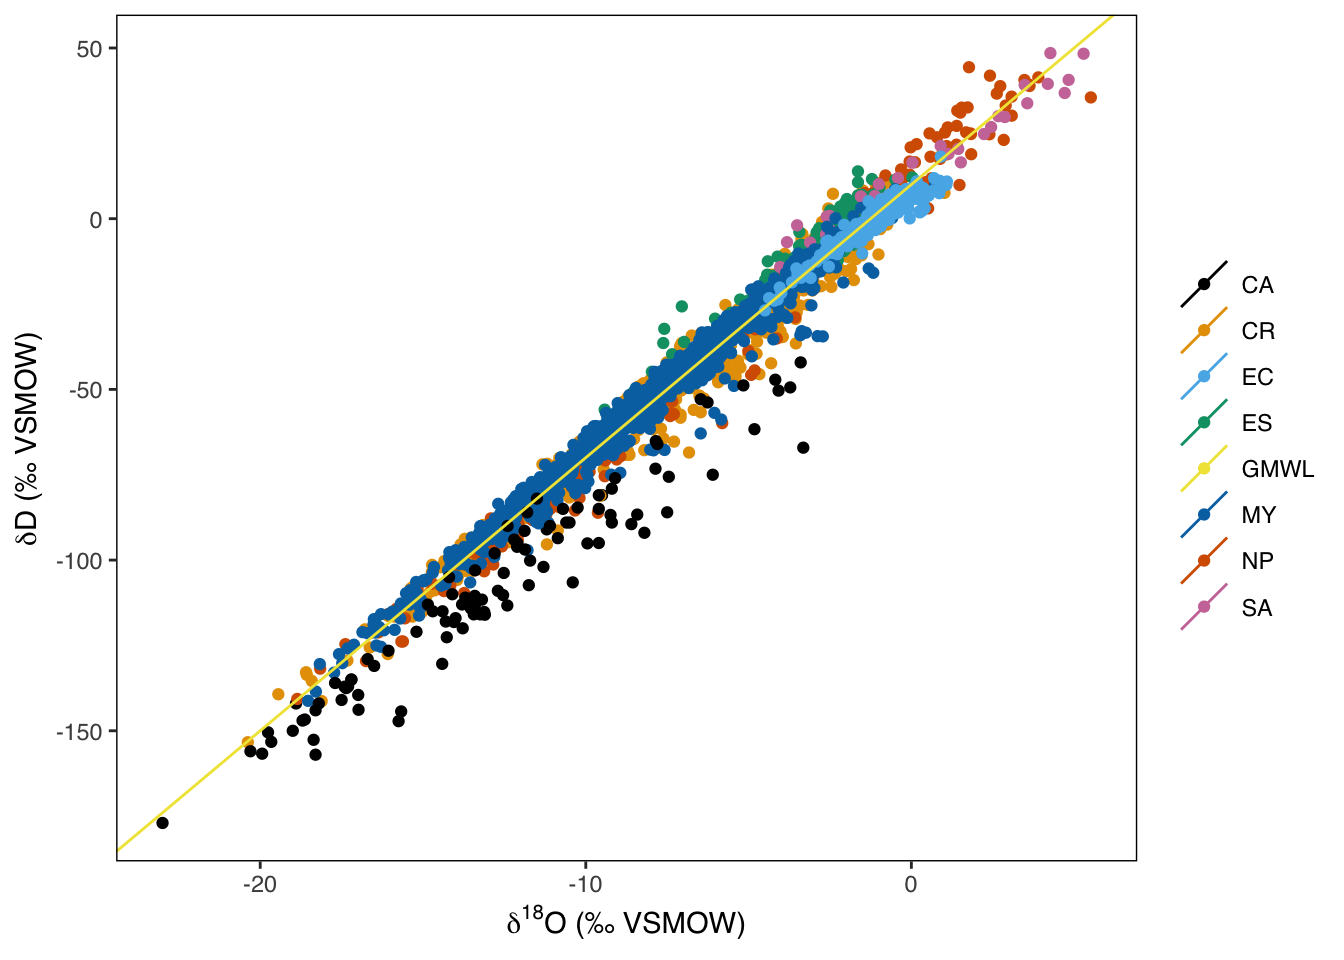
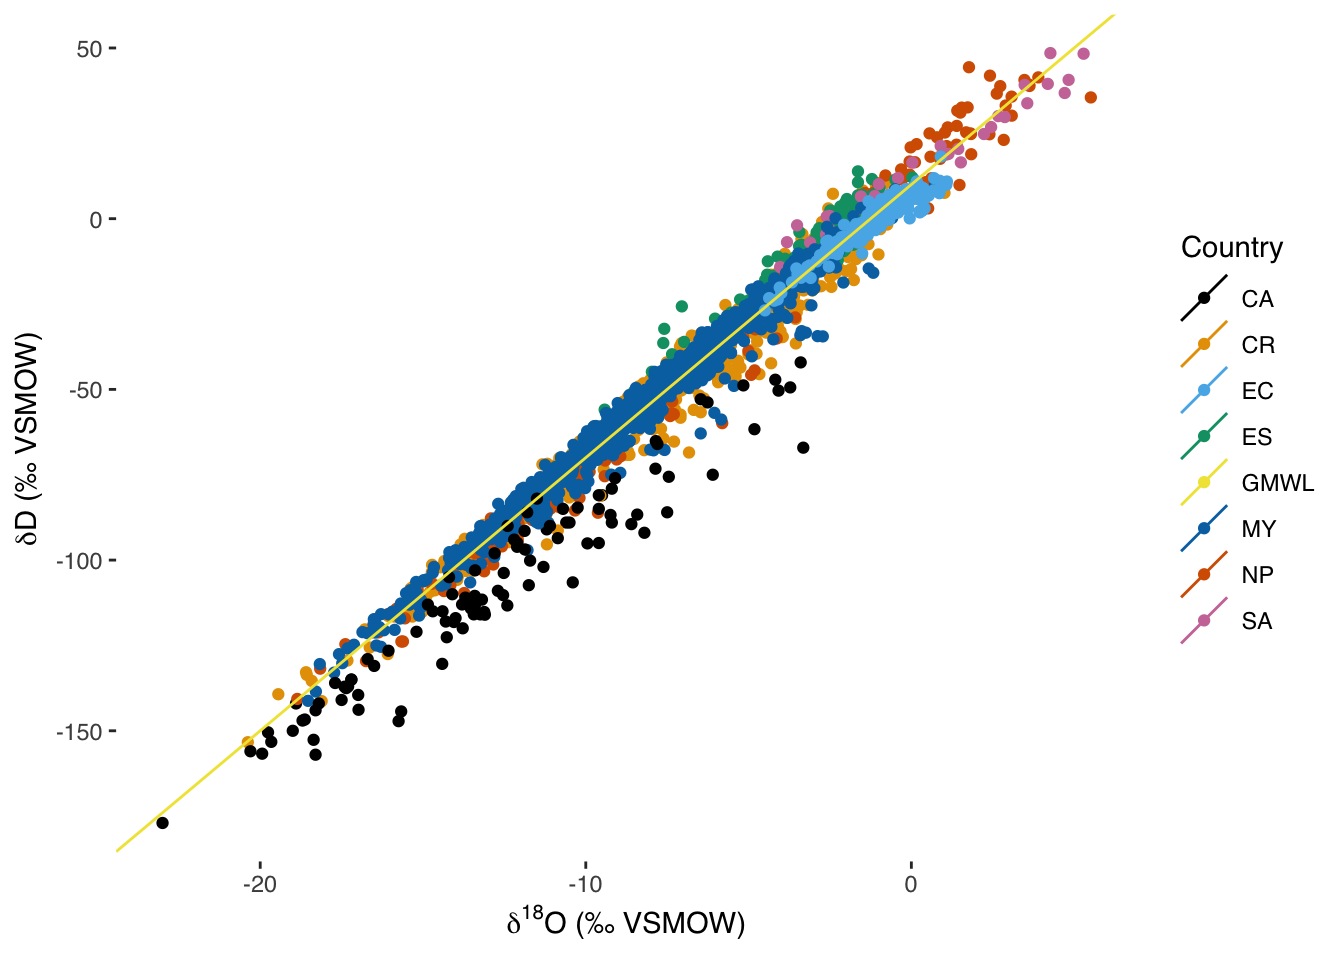
deploy: ae3dd210ce514406670daa33ac255601acab1f68

Changed region(s): [[0.875, 0.25, 0.9688, 0.6562]]

diff --git a/notebooks/2021-02-20-testing-rmarkdown-with-gnip-data/index.html b/notebooks/2021-02-20-testing-rmarkdown-with-gnip-data/index.html
@@ -92559,6 +92559,27 @@ NA
 <div id="post-plot" class="section level2">
 <h2>Post plot</h2>
 <p>A basic ggplot for proof of concept.</p>
+<pre class="r"><code>theme_set(theme_tufte(base_family = &quot;Helvetica&quot;))
+
+axis.x.label &lt;- expression(paste(delta^{18}, &quot;O (‰ VSMOW)&quot;))
+axis.y.label &lt;- expression(paste(delta, &quot;D (‰ VSMOW)&quot;))
+
+plot.basic &lt;- ggplot() +
+  
+  # plot features
+  geom_point(data=waters.all, aes(x=O18, y=H2, color=Country)) +
+  geom_abline(data=NULL, aes(slope=8, intercept=10, color=&quot;GMWL&quot;)) +
+  
+  # legend 
+  scale_color_colorblind() + 
+    # without any adjustments to the legend, this one is haphazard 
+  
+  # axes and titles
+  coord_cartesian() + 
+  labs(x = axis.x.label, 
+       y = axis.y.label)
+
+plot(plot.basic)</code></pre>
 <pre><code>## Warning: Removed 768 rows containing missing values (geom_point).</code></pre>
 <p><img src="https://saslaw.github.io/notebooks/2021-02-20-testing-rmarkdown-with-gnip-data/index_files/figure-html/basic-plot-1.png" width="672" /></p>
 <p>OK!</p>
